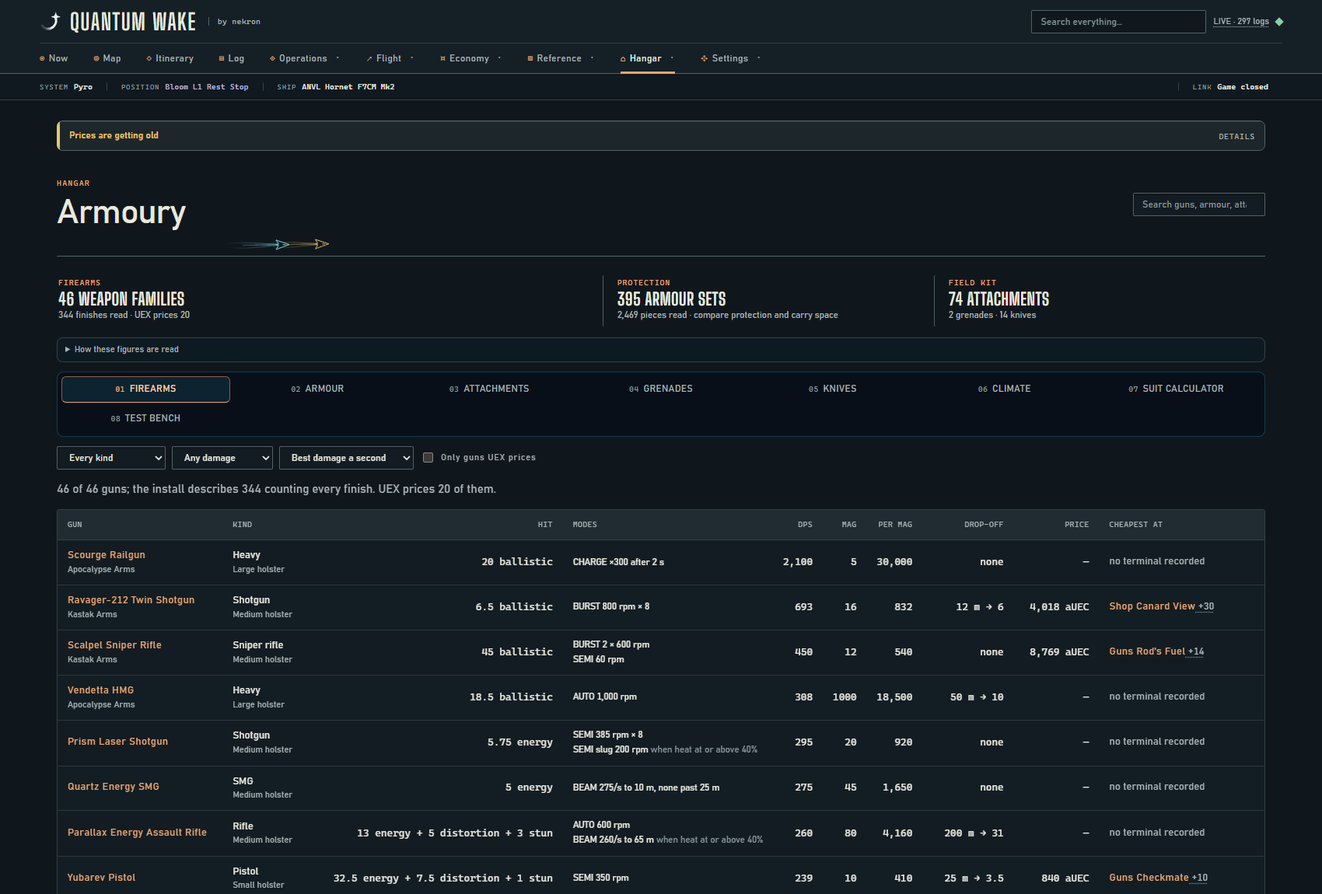
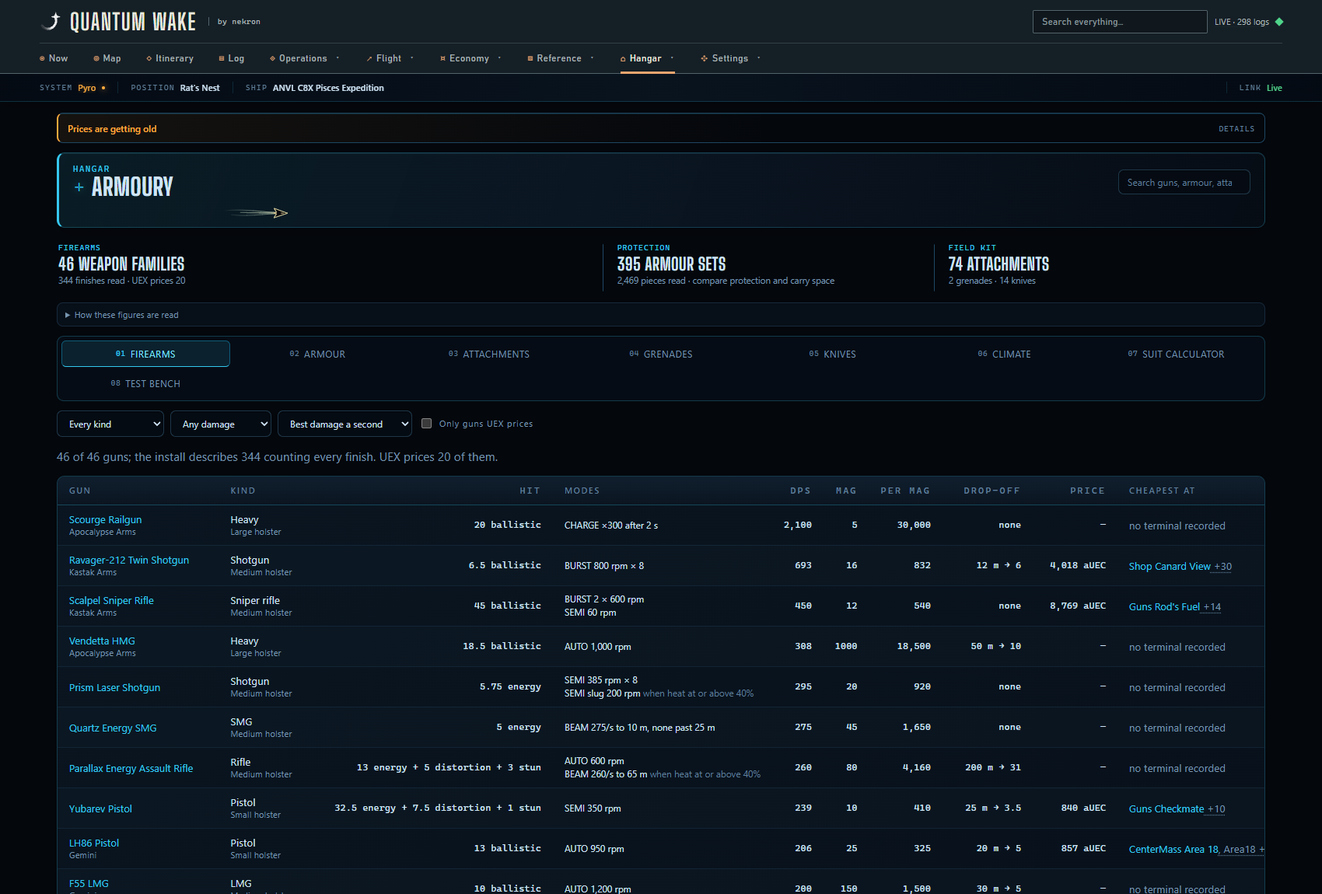
Bring back the previous look, keeping the new top bar (1.2.19)
Nicolas preferred the pages from before the spacecraft console but liked its
top menu with the symbols. console.css now restyles only the header (with its
palette scoped to .topbar so the orange stays there) and the sticky offsets
under the taller header; everything below goes back to app.css. The Now page
heading, its course-chart art and their French strings are gone. A test keeps
console.css to the header. All 24 README screenshots retaken on this build.

No-payload-bump: stylesheet, markup and docs only, nothing stored changed

diff --git a/web/console.css b/web/console.css
@@ -1,10 +1,12 @@
-/* Quantum Wake's spacecraft console. Scoped to the dashboard: the transparent
-   in-game readout and its native window have a separate, compact type scale. */
+/* The console's top edge: a nameplate above a continuous navigation index.
+   Only the header is restyled; the pages below keep app.css. The palette is
+   scoped to the header so its orange selection rule and warm-white type do
+   not leak into the cyan pages, and the in-game overlay is left alone. */
 body:not(.overlay) {
-  --void: #10171c;
-  --deep: #131c22;
-  --panel: #192229;
-  --panel-2: #202b32;
+  --console-header: 96px;
+  --console-telemetry: 34px;
+}
+body:not(.overlay) .topbar {
   --rule: #334047;
   --rule-hot: #53636a;
   --text: #e9e8df;
@@ -12,35 +14,10 @@ body:not(.overlay) {
   --dim: #8a999e;
   --cyan: #efa66f;
   --cyan-hot: #ffd0a9;
-  --cyan-deep: #8c6045;
-  --amber: #eac66f;
-  --green: #8dcca4;
-  --red: #f3988c;
-  --violet: #b7b0dc;
-  --own: #ddc8a3;
-  --src-files: #8dbed2;
-  --src-community: #8dcca4;
-  --src-uex: #b7b0dc;
   --display: "Bahnschrift", "Segoe UI Variable", "Segoe UI", system-ui, sans-serif;
-  --console-header: 96px;
-  --console-telemetry: 34px;
-  --gap: 18px;
-  background: var(--void);
-  min-height: 100%;
-  height: auto;
-  color: var(--text);
-  font-size: 15px;
-  line-height: 1.45;
-  letter-spacing: 0;
 }
 
-body:not(.overlay)::before,
-body:not(.overlay) .margin-mark,
-body:not(.overlay) .railmark,
-body:not(.overlay) .sector-scan { display: none; }
-
-/* A ship nameplate above a continuous navigation index, rather than a row of
-   glowing buttons competing with the data underneath. Menus retain overflow. */
+/* Menus retain overflow: a scroller here would cut the dropdowns off. */
 body:not(.overlay) .topbar {
   display: grid;
   grid-template-columns: minmax(235px, 1fr) auto;
@@ -74,155 +51,10 @@ body:not(.overlay) .tabs > button:first-child::after { left: 0; }
 body:not(.overlay) .group-menu { left: var(--nav-menu-left, 0px); right: auto; max-width: calc(100vw - 24px); padding: 5px; min-width: 180px; border: 1px solid var(--rule-hot); border-top: 2px solid var(--cyan); border-radius: 0 0 3px 3px; background: #19252d; box-shadow: 0 12px 24px #0005; backdrop-filter: none; }
 body:not(.overlay) .group-menu button { padding: 8px 12px; font-size: 13px; }
 
-body:not(.overlay) .flight-telemetry { top: var(--console-header); min-height: var(--console-telemetry); background: #10191f; border-color: var(--rule); box-shadow: none; backdrop-filter: none; }
-body:not(.overlay) .telemetry-field { border-color: var(--rule); padding-inline: 18px; }
-body:not(.overlay) .telemetry-field:first-child { padding-left: 0; }
-body:not(.overlay) .telemetry-label { font-size: 9px; letter-spacing: .1em; color: var(--dim); }
-body:not(.overlay) .telemetry-field b { font-family: var(--mono); font-size: 10px; font-weight: 500; color: var(--text); }
-body:not(.overlay) #telemetry-system { color: var(--text); text-shadow: none; }
-body:not(.overlay) .telemetry-field:first-child::after { display: none; }
-body:not(.overlay) .context-rail { top: calc(var(--console-header) + var(--console-telemetry)); background: #202b32; border-color: var(--rule-hot); box-shadow: none; }
-body:not(.overlay) main { padding-top: 26px; padding-bottom: 48px; border: 0; mask-image: none; }
-
-/* The wake is the brand's course-line motif, not a decorative flight readout.
-   Its nodes deliberately have no made-up coordinates or telemetry labels. */
-body:not(.overlay) .console-heading,
-body:not(.overlay) .view > .section-bar:not(.mining-title),
-body:not(.overlay) .view[data-voice="own"] > .section-bar:not(.mining-title),
-body:not(.overlay) .mining-view > .section-bar {
-  position: relative;
-  min-height: 110px;
-  margin: 0 0 24px;
-  padding: 17px 0 20px;
-  border: 0;
-  border-bottom: 1px solid var(--rule-hot);
-  border-radius: 0;
-  clip-path: none;
-  background: none;
-  box-shadow: none;
-}
-body:not(.overlay) .view > .section-bar:has(> .wake-chase),
-body:not(.overlay) #now-closed:has(> .wake-chase) { --flight-lane: 32px; padding-bottom: var(--flight-lane); }
-body:not(.overlay) .console-heading { display: flex; justify-content: space-between; align-items: end; gap: 20px; background: url(assets/wake-chart.svg) right 24px top / 360px 120px no-repeat; }
-body:not(.overlay) .console-overline,
-body:not(.overlay) .page-kicker { margin: 0 0 8px; color: var(--cyan); font: 10px/1.4 var(--mono); letter-spacing: .13em; text-transform: uppercase; }
-body:not(.overlay) .console-heading h1,
-body:not(.overlay) .view > .section-bar h2,
-body:not(.overlay) .mining-title h2 { margin: 0; padding: 0; color: var(--text); font: 450 44px/1.05 var(--display); letter-spacing: -.025em; text-transform: none; }
-body:not(.overlay) .console-heading .console-description { color: var(--muted); font: 12px var(--mono); margin: 0 0 3px; padding-right: 42px; }
-body:not(.overlay) .view > .section-bar .page-glyph { display: none; }
-body:not(.overlay) .view:where(:not(#view-share)) h2 { color: var(--text); font: 550 21px/1.2 var(--display); letter-spacing: -.015em; text-transform: none; }
-body:not(.overlay) .view > .section-bar h2 { font-size: 44px; font-weight: 450; line-height: 1.05; }
-body:not(.overlay) .map-head h2 { color: var(--text); font: 450 36px/1.1 var(--display); letter-spacing: -.025em; text-transform: none; }
-body:not(.overlay) .section-bar h2::before { display: none; }
-body:not(.overlay) .reference-toolbar-bar.section-bar { padding: 0; min-height: 110px; overflow: visible; }
-body:not(.overlay) .reference-title { padding: 17px 0 20px; }
-body:not(.overlay) .reference-toolbar { background: #182229; border-color: var(--rule); }
-
-/* Flat instrument surfaces and readable labels carry the hierarchy. The
-   orange rule is reserved for selection, actions and the current focus. */
-body:not(.overlay) :is(.card, .option-block, .table-wrap, .ship-card, .data-card, .settings-group, .ref-modal-panel, .entity-panel, .command-panel, .search-results) {
-  border-color: var(--rule);
-  border-radius: 3px;
-  clip-path: none;
-  background: var(--panel);
-  background-image: none;
-  box-shadow: none;
-  backdrop-filter: none;
-}
-body:not(.overlay) .card:hover { border-color: var(--rule-hot); }
-body:not(.overlay) .card::before,
-body:not(.overlay) .summary-strip .tile::before,
-body:not(.overlay) #view-now .now-status-card::after { display: none; }
-body:not(.overlay) .card-label { margin-bottom: 13px; color: var(--muted); font: 11px/1.4 var(--mono); letter-spacing: .04em; text-transform: none; }
-body:not(.overlay) .card-source { color: var(--dim); }
-body:not(.overlay) .data-source { font-size: 10px; letter-spacing: 0; }
-body:not(.overlay) .view .option-block > h3,
-body:not(.overlay) .option-head h3 { font: 550 18px/1.2 var(--display); letter-spacing: -.015em; text-transform: none; }
-body:not(.overlay) :is(.option-head, .settings-group-head) { border-color: var(--rule); }
-body:not(.overlay) :is(.settings-group-index, .settings-card-index) { color: var(--dim); }
-body:not(.overlay) .settings-group[open] { border-color: var(--rule-hot); }
-body:not(.overlay) .settings-group[open] > summary { background: var(--panel-2); }
-body:not(.overlay) :is(.context-rail-inner, .notice-strip .notice, .map-info, .entity-drawer, .reference-toolbar) { background-image: none; box-shadow: none; border-color: var(--rule); }
-body:not(.overlay) .notice-strip { margin-bottom: 18px; }
-body:not(.overlay) .notice-strip .notice { border-radius: 2px; border-left: 2px solid var(--amber); background: #1d262a; }
-body:not(.overlay) .notice-strip .notice-summary { padding: 8px 12px; }
-body:not(.overlay) .notice-strip .notice-body b { font-size: 12px; color: var(--amber); }
-body:not(.overlay) .notice-strip .notice-toggle { font-size: 10px; color: var(--muted); }
-
-body:not(.overlay) #view-now .now-grid { gap: 18px; }
-body:not(.overlay) #view-now .card { background: var(--panel); border-color: var(--rule); border-radius: 3px; padding: 18px 20px; }
-body:not(.overlay) #view-now .now-status-card { border-top: 2px solid var(--rule-hot); background: #1b262e; }
-body:not(.overlay) #view-now.game-closed #now-focus { display: none; }
-body:not(.overlay) #view-now .now-status-card > .card-label { color: var(--text); font-weight: 600; }
-body:not(.overlay) #view-now .now-status-card .page-glyph-label .page-glyph { display: none; }
-body:not(.overlay) .now-status-label { color: var(--muted); font-size: 10px; letter-spacing: .06em; }
-body:not(.overlay) .now-status-field { border-color: var(--rule); padding-top: 12px; padding-bottom: 12px; }
-body:not(.overlay) .now-status-field .value { color: var(--text); font-size: 18px; font-weight: 500; }
-body:not(.overlay) .now-status-location { border-right-color: var(--rule); }
-body:not(.overlay) .now-status-location .hero-value { color: var(--text); font: 450 clamp(25px, 2.8vw, 39px)/1.15 var(--display); letter-spacing: -.025em; text-shadow: none; }
-body:not(.overlay) .now-status-location .hero-sub { color: var(--muted); font-size: 13px; }
-body:not(.overlay) .now-focus:not([hidden]),
-body:not(.overlay) .now-focus.now-closed:not([hidden]) { min-height: 72px; border: 0; border-left: 3px solid var(--cyan); border-radius: 0 3px 3px 0; padding: 13px 17px; background: #202d34; box-shadow: none; }
-body:not(.overlay) .now-focus::after { display: none; }
-body:not(.overlay) .now-focus .now-focus-mark { font: 10px var(--mono); color: var(--cyan); letter-spacing: .06em; }
-body:not(.overlay) .now-focus-title { color: var(--text); font: 500 20px/1.25 var(--display); letter-spacing: -.01em; }
-body:not(.overlay) #now-closed-detail,
-body:not(.overlay) #now-focus-detail { font-size: 12px; color: var(--muted); }
-body:not(.overlay) #view-now .card.now-briefing { border-color: var(--rule); border-top-color: var(--cyan-deep); background: var(--panel); }
-body:not(.overlay) #view-now .card.now-briefing .card-label { color: var(--cyan); }
-body:not(.overlay) .briefing-section { background: none; border: 0; border-top: 1px solid var(--rule); padding: 10px 0; }
-body:not(.overlay) .briefing-title { color: var(--text); font-size: 22px; font-weight: 500; }
-body:not(.overlay) #now-feed { max-height: 440px; background-image: none; padding-left: 0; }
-body:not(.overlay) #now-feed li { padding: 10px 0 10px 16px; border-left: 1px solid var(--rule-hot); border-bottom-color: var(--rule); gap: 12px; font-size: 13px; }
-body:not(.overlay) #now-feed li::before { left: -3px; border: 0; border-radius: 0; width: 5px; height: 5px; background: var(--cyan); box-shadow: none; }
-body:not(.overlay) #now-feed .t { font: 11px var(--mono); color: var(--muted); }
-body:not(.overlay) #now-feed .k { border: 0; padding: 0; background: none; font-size: 10px; }
-
-body:not(.overlay) .summary-strip { border-block: 1px solid var(--rule); gap: 0; background: transparent; }
-body:not(.overlay) .summary-strip .tile { padding: 14px 18px; border: 0; border-left: 1px solid var(--rule); border-radius: 0; background: transparent; box-shadow: none; }
-body:not(.overlay) .summary-strip .tile:first-child { border-left: 0; }
-body:not(.overlay) .summary-strip .tile .n { color: var(--text); font-family: var(--mono); font-weight: 450; letter-spacing: -.045em; }
-body:not(.overlay) .summary-strip .tile .l { color: var(--muted); letter-spacing: .04em; }
-body:not(.overlay) .table-wrap { background: var(--deep); }
-body:not(.overlay) thead th { padding: 12px 13px; background: #202b32; border-color: var(--rule); color: var(--muted); font: 10px/1.4 var(--mono); letter-spacing: .04em; }
-body:not(.overlay) tbody td { padding: 11px 13px; border-color: #2b373e; font-size: 13px; }
-body:not(.overlay) tbody tr:hover td { background: #202c33; }
-body:not(.overlay) tbody td :is(button.ghost, a.ghost) { font-size: 11px; letter-spacing: 0; }
-
-body:not(.overlay) :where(button, .ghost, .tiny) { border-radius: 2px; clip-path: none; background-image: none; box-shadow: none; text-shadow: none; letter-spacing: .025em; }
-body:not(.overlay) :is(button.ghost, button.tiny) { border-color: var(--rule-hot); background: transparent; color: var(--text); box-shadow: none; font-size: 11px; text-transform: none; }
-body:not(.overlay) :is(button.ghost, button.tiny)::after { display: none; }
-body:not(.overlay) :is(button.ghost, button.tiny):hover:not(:disabled) { border-color: var(--cyan); background: #273139; color: var(--cyan-hot); box-shadow: none; }
-body:not(.overlay) button.primary { background: var(--cyan); color: #161d20; border-color: var(--cyan); border-radius: 2px; box-shadow: none; text-transform: none; font-weight: 600; }
-body:not(.overlay) button.primary:hover:not(:disabled) { background: var(--cyan-hot); border-color: var(--cyan-hot); }
-body:not(.overlay) :is(button, a, input, select, textarea):focus-visible { outline: 2px solid var(--cyan); outline-offset: 3px; box-shadow: none; }
-body:not(.overlay) :is(input[type="text"], input[type="search"], input[type="number"], input[type="date"], select, textarea) { background-color: var(--deep); border-color: var(--rule-hot); color: var(--text); border-radius: 2px; }
-body:not(.overlay) :is(button.place-link, button.ref-link, button.commodity-open, button.link) { color: var(--cyan); text-decoration-color: var(--cyan-deep); }
-body:not(.overlay) .ref-modal-panel { background: var(--panel); }
-body:not(.overlay) .entity-drawer { background: var(--panel); border-color: var(--rule-hot); }
-body:not(.overlay) .entity-drawer :is(.entity-head, .entity-section) { border-color: var(--rule); }
+/* The header is two rows now, so everything sticky beneath it moves down. */
+body:not(.overlay) .flight-telemetry { top: var(--console-header); }
+body:not(.overlay) .context-rail { top: calc(var(--console-header) + var(--console-telemetry)); }
 body:not(.overlay) .deck-summary { top: calc(var(--console-header) + var(--console-telemetry) + 18px); }
-body:not(.overlay) .foot { border-color: var(--rule); color: var(--dim); }
-body:not(.overlay) #view-fleet .fleet-roster-card { border-color: var(--rule); border-radius: 3px; background: var(--panel); box-shadow: none; }
-body:not(.overlay) #view-fleet .fleet-roster-card .ship-render-wrap { background: var(--deep); }
-body:not(.overlay) #view-settings :is(.option-block, .settings-group) { border-radius: 3px; background: var(--panel); box-shadow: none; }
-body:not(.overlay) #view-settings .settings-group-copy strong { font-weight: 550; letter-spacing: .04em; }
-
-/* Keep the location and ship together; session health is a full-width footer
-   so its explanation does not stretch an otherwise empty location column. */
-@media (min-width: 1100px) {
-  body:not(.overlay) .now-status-readings:has(> .now-status-location:not([hidden])) > .now-status-location { grid-row: span 2; }
-  body:not(.overlay) .now-status-readings:has(> .now-status-location:not([hidden])) > .now-status-respawn { grid-column: 3; grid-row: 2; }
-  body:not(.overlay) .now-status-readings > .now-status-health:not([hidden]) { grid-column: 1 / -1; display: grid; grid-template-columns: 145px 100px 145px minmax(0, 1fr); column-gap: 18px; align-items: center; padding-top: 12px; }
-  body:not(.overlay) .now-status-health > .now-status-label { grid-area: 1 / 1; }
-  body:not(.overlay) .now-status-health > .card-source { grid-area: 2 / 1; margin: 0; }
-  body:not(.overlay) .now-status-health > .statline { grid-row: 1 / 3; display: flex; align-items: baseline; justify-content: flex-start; gap: 10px; border: 0; font-size: 11px; }
-  body:not(.overlay) .now-status-health > .statline:nth-of-type(3) { grid-column: 2; }
-  body:not(.overlay) .now-status-health > .statline:nth-of-type(4) { grid-column: 3; }
-  body:not(.overlay) .now-status-health > .statline b { color: var(--text); font-size: 20px; }
-  body:not(.overlay) .now-status-health > .note { grid-area: 1 / 4 / 3 / 5; margin: 0; color: var(--muted); font-size: 11px; line-height: 1.5; }
-}
 
 /* A navigation row can wrap without clipping its dropdowns. Keeping it out
    of an overflow scroller also leaves keyboard-focused menu items reachable. */
@@ -243,12 +75,7 @@ body:not(.overlay) #view-settings .settings-group-copy strong { font-weight: 550
   body:not(.overlay) .tabs > button:first-child { padding-left: 10px; }
   body:not(.overlay) .tabs > button:first-child::after { left: 10px; }
   body:not(.overlay) .group-menu { min-width: 165px; }
-  body:not(.overlay) main { padding-inline: 18px; padding-top: 20px; }
   body:not(.overlay) .brand .by { display: none; }
-  body:not(.overlay) .console-heading .console-description { display: none; }
-  body:not(.overlay) .console-heading,
-  body:not(.overlay) .view > .section-bar:not(.mining-title),
-  body:not(.overlay) .view[data-voice="own"] > .section-bar:not(.mining-title) { background-size: 250px 100px; background-position: right center; }
 }
 @media (max-width: 520px) {
   body:not(.overlay) { --console-header: 160px; }
@@ -258,25 +85,4 @@ body:not(.overlay) #view-settings .settings-group-copy strong { font-weight: 550
   body:not(.overlay) .status { font-size: 10px; }
   body:not(.overlay) .tabs { gap: 0; }
   body:not(.overlay) .tabs button { padding: 8px 9px; font-size: 11px; }
-  body:not(.overlay) .console-heading h1,
-  body:not(.overlay) .view > .section-bar h2 { font-size: 36px; }
-  body:not(.overlay) .console-heading,
-  body:not(.overlay) .view > .section-bar:not(.mining-title),
-  body:not(.overlay) .view[data-voice="own"] > .section-bar:not(.mining-title) { min-height: 100px; background-image: none; }
-  body:not(.overlay) main { padding-inline: 12px; }
-  body:not(.overlay) #view-now .card { padding: 14px; }
-  body:not(.overlay) .now-focus:not([hidden]) { grid-template-columns: 1fr; }
-  body:not(.overlay) .now-focus .tiny { justify-self: start; }
-  body:not(.overlay) .briefing-head { flex-direction: column; align-items: stretch; }
-  body:not(.overlay) .briefing-actions { justify-content: flex-start; padding-right: 0; }
-  body:not(.overlay) #now-feed li { flex-wrap: wrap; gap: 4px 10px; }
-  body:not(.overlay) #now-feed :is(.x, .d) { flex-basis: 100%; }
-  body:not(.overlay) .foot { display: grid; grid-template-columns: 70px 1fr; gap: 14px; padding: 20px 12px 28px; }
-  body:not(.overlay) .foot .emblem { grid-area: 1 / 1; width: 60px; box-shadow: none; }
-  body:not(.overlay) .foot .mbc { grid-area: 1 / 2; width: 65px; }
-  body:not(.overlay) .foot > span:not(.foot-version) { grid-column: 1 / -1; }
-  body:not(.overlay) .foot-version { grid-column: 1 / -1; justify-self: end; margin-left: 0; }
 }
-
-/* These new heading elements belong only to the dashboard's record view. */
-body.overlay .console-heading { display: none; }

diff --git a/web/index.html b/web/index.html
@@ -302,10 +302,6 @@
 
   <!-- NOW -->
   <section id="view-now" class="view active">
-    <div class="console-heading">
-      <div><p class="console-overline">Flight recorder</p><h1>Now</h1></div>
-      <p class="console-description">A pilot's logbook</p>
-    </div>
     <!-- When the game is closed. Game.log keeps the last session until the
          next launch, so without this the page reads days-old state as live. -->
     <section class="now-focus now-closed" id="now-closed" hidden>

diff --git a/tests/Quantumwake.WebTests/StylesheetTests.cs b/tests/Quantumwake.WebTests/StylesheetTests.cs
@@ -107,6 +107,30 @@ public class StylesheetTests
         }
     }
 
+    /// <summary>
+    /// console.css restyles the header and nothing else. 1.2.18 used it to
+    /// restyle every page and was taken back in 1.2.19 because the old pages
+    /// were preferred; page styles belong in app.css.
+    /// </summary>
+    [Fact]
+    public void Console_stylesheet_only_touches_the_header()
+    {
+        var header = new[] { ".topbar", ".brand", ".status", ".search-box", ".tabs", "#tabs", ".group-menu" };
+        var underIt = new[] { ".flight-telemetry", ".context-rail", ".deck-summary" };
+        var css = System.Text.RegularExpressions.Regex.Replace(Css("console.css"), @"/\*.*?\*/", "", System.Text.RegularExpressions.RegexOptions.Singleline);
+
+        foreach (System.Text.RegularExpressions.Match rule in System.Text.RegularExpressions.Regex.Matches(css, @"([^{}]+)\{[^{}]*\}"))
+        {
+            foreach (var selector in rule.Groups[1].Value.Split(','))
+            {
+                var s = selector.Trim();
+                if (s == "body:not(.overlay)") continue;
+                Assert.StartsWith("body:not(.overlay) ", s);
+                Assert.True(header.Concat(underIt).Any(s.Contains), $"console.css styles something outside the header: {s}");
+            }
+        }
+    }
+
     private static int CountOf(string text, string token)
     {
         var count = 0;

diff --git a/docs/design-language.md b/docs/design-language.md
@@ -1,56 +1,36 @@
-# Quantum Wake: a ship's console
+# The top bar
 
-Quantum Wake is a pilot's record of a spacefaring life. Its dashboard should
-feel like equipment aboard an exploration vessel: useful over a long session,
-recognisable without a logo in every panel, and explicit about what it knows.
+The dashboard's pages are styled by `web/app.css`. The one exception is the
+header, which `web/console.css` restyles after it: a Quantum Wake nameplate
+above a single row of navigation menus.
 
-The dashboard treatment lives in `web/console.css`, after the functional
-component styles in `web/app.css`. It is scoped away from the in-game overlay;
-the overlay's footprint, transparency and type scale are a separate concern.
+1.2.18 restyled every page as a charcoal "spacecraft console". Nicolas
+preferred the previous pages and asked to keep only the top menu with its
+symbols, so 1.2.19 put the pages back and kept the header. Changes to the
+header go in `console.css`, and changes to the pages go in `app.css`.
 
-## Identity
+## What the header keeps
 
-- Charcoal instrument surfaces and warm-white readouts. Space comes from the
-  ships, places and course information, rather than cyan glow on every frame.
-- Orange marks actions, navigation selection and the current focus. Warning,
-  danger and success keep their own meanings; provenance retains its source
-  names and colours.
-- A nameplate and continuous navigation index form the console's top edge.
-  Menus remain attached to their controls and fit inside the viewport.
-  Navigation symbols and the animated ships along page headers are retained
-  as recognisable parts of Quantum Wake. The ships keep their own lane clear
-  of controls and respect reduced-motion preferences.
-- The wake mark extends into a restrained course-chart motif on the Now page.
-  It is decorative, with no invented coordinates, route claims or telemetry.
-  Working page headers leave room for filters rather than putting art behind
-  them.
-- Flat panels, fine structural rules and clear type establish hierarchy.
-  Avoid glowing outlines, ambient scan animations, rounded panels inside more
-  rounded panels, and a decorative icon beside every label.
+- A nameplate row (mark, name, live status, search) above the navigation row.
+- The navigation symbols from `PAGE_GLYPHS` beside each menu name.
+- An orange mark under the page you are on. The header has its own palette,
+  scoped to `.topbar`, so that orange and its warm-white type stay in the
+  header and the pages keep their cyan.
+- In a narrow window the navigation wraps onto more lines instead of
+  scrolling sideways, and `initNavigationMenuBounds` in `app.js` moves each
+  dropdown so it stays inside the window. A scroller would cut the dropdowns
+  off and hide keyboard-focused menu items.
+- The header is two rows, so the flight line, the context rail and the Stream
+  Deck summary stick under `--console-header` rather than app.css's fixed
+  offsets. `syncNavigationHeader` measures the real height when the navigation
+  wraps.
 
-## Information
-
-Page names match navigation. The spacecraft language belongs in the visual
-system, not in unfamiliar names for ordinary actions. The pilot still sees
-Now, Fleet, Map and Settings.
-
-Use the game's actual ship art and recorded course information as the main
-visual material. Do not add decorative statistics, fake status lights or an
-illustration that could be mistaken for a sensor reading.
-
-Missing data and inferred figures retain their explanations. Closed-game
-records do not present the last reported activity as a current focus. Session
-health has room for its caveat rather than forcing it into a narrow column.
-
-Keep actions visible before hover. Preserve keyboard focus and the existing
-choice of status fields. On narrow windows, wrap the navigation index and
-bound its menus instead of clipping them inside a horizontal scroller.
+Everything is scoped to `body:not(.overlay)`: the in-game overlay and the
+Cockpit HUD are not touched.
 
 ## Checking changes
 
 Render the actual application with isolated data, following
-`run-quantumwake`. Check Now, a ship-heavy view, a reference or map view,
-Settings and a dense tool such as the Stream Deck builder. Inspect narrow
-layouts and keyboard-opened menus. Compare the overlay with the console
-stylesheet enabled and disabled before claiming the dashboard work leaves it
-alone.
+`run-quantumwake`. Check a wide window and a narrow one (the navigation
+wraps), open a menu with the keyboard, and check that the flight line sits
+directly under the header rather than behind it.

diff --git a/README.md b/README.md
@@ -370,6 +370,10 @@ project and is not affiliated with or endorsed by Cloud Imperium Games.
 
 Releases before 1.0 are in [docs/release-history.md](docs/release-history.md).
 
+### 1.2.19
+
+**The previous look is back, with the new top bar kept.** The pages return to the blue-grey instrument panels, cyan highlights and page titles from before 1.2.18. The navigation keeps its 1.2.18 form: the Quantum Wake nameplate above a single row of menus with their symbols and an orange mark under the page you are on, wrapping onto more lines in a narrow window with its menus kept on screen. The screenshots in this README are retaken to show it.
+
 ### 1.2.18
 
 **A spacecraft console for Quantum Wake.** The dashboard has a charcoal and warm-white palette, restrained orange controls, a clearer navigation index, and a course-chart motif built around the wake mark. Flatter instrument panels and larger page titles give the flight record and reference views their own character, and the navigation symbols and the ships flying along page headers stay. On a narrow window the navigation wraps onto more lines and its menus stay on screen. The in-game overlay and the Cockpit HUD keep their own look. The screenshots in this README show the new console.
